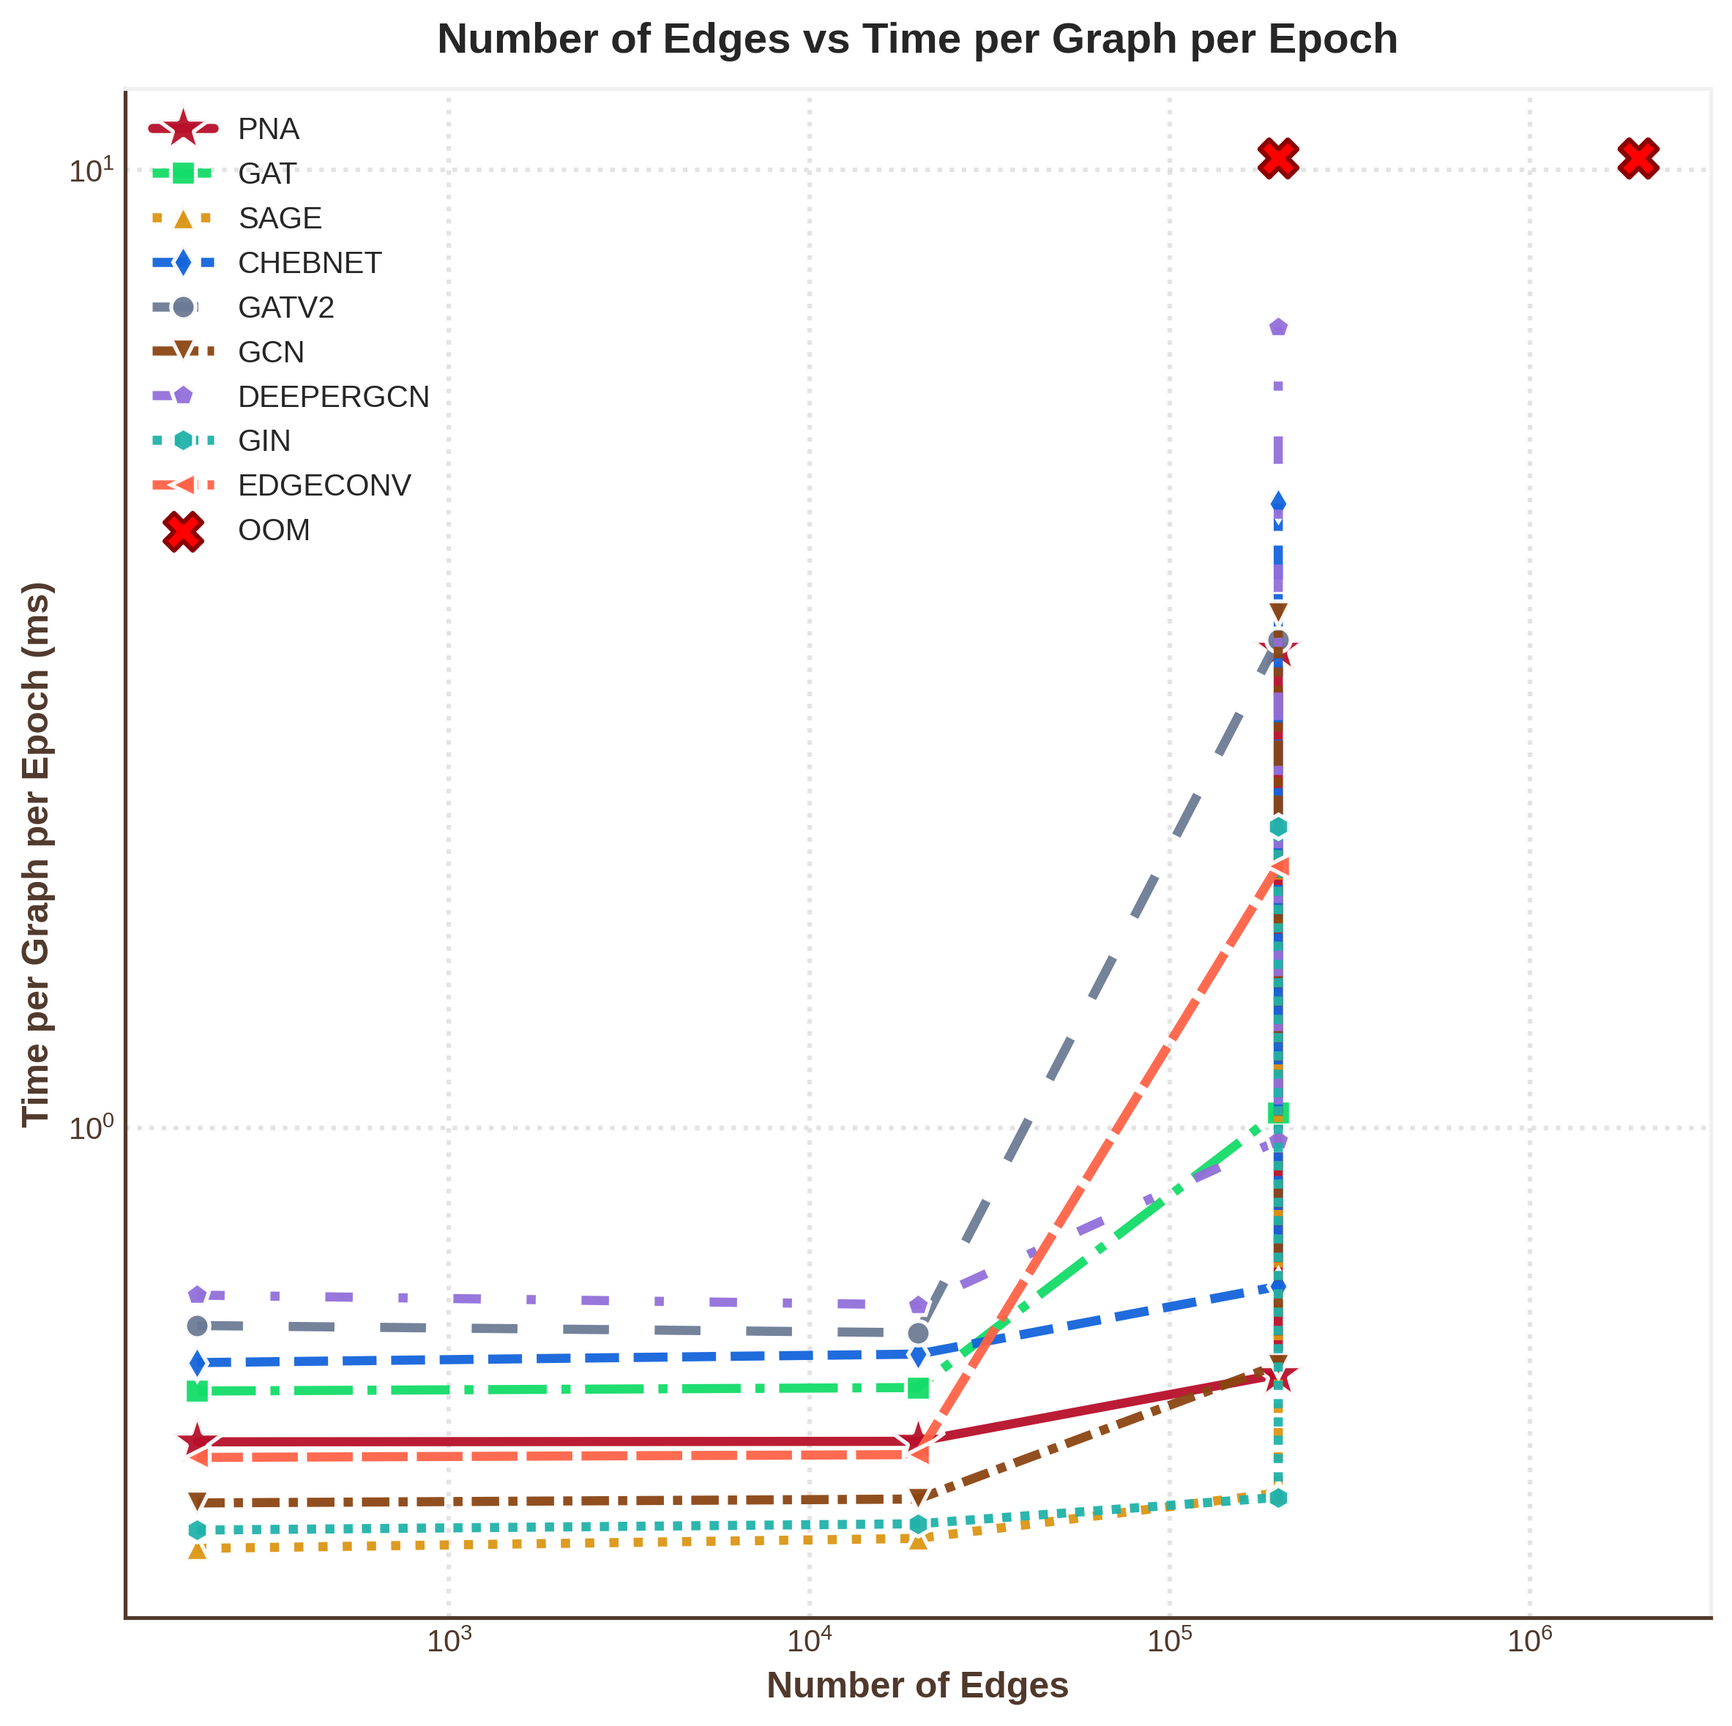
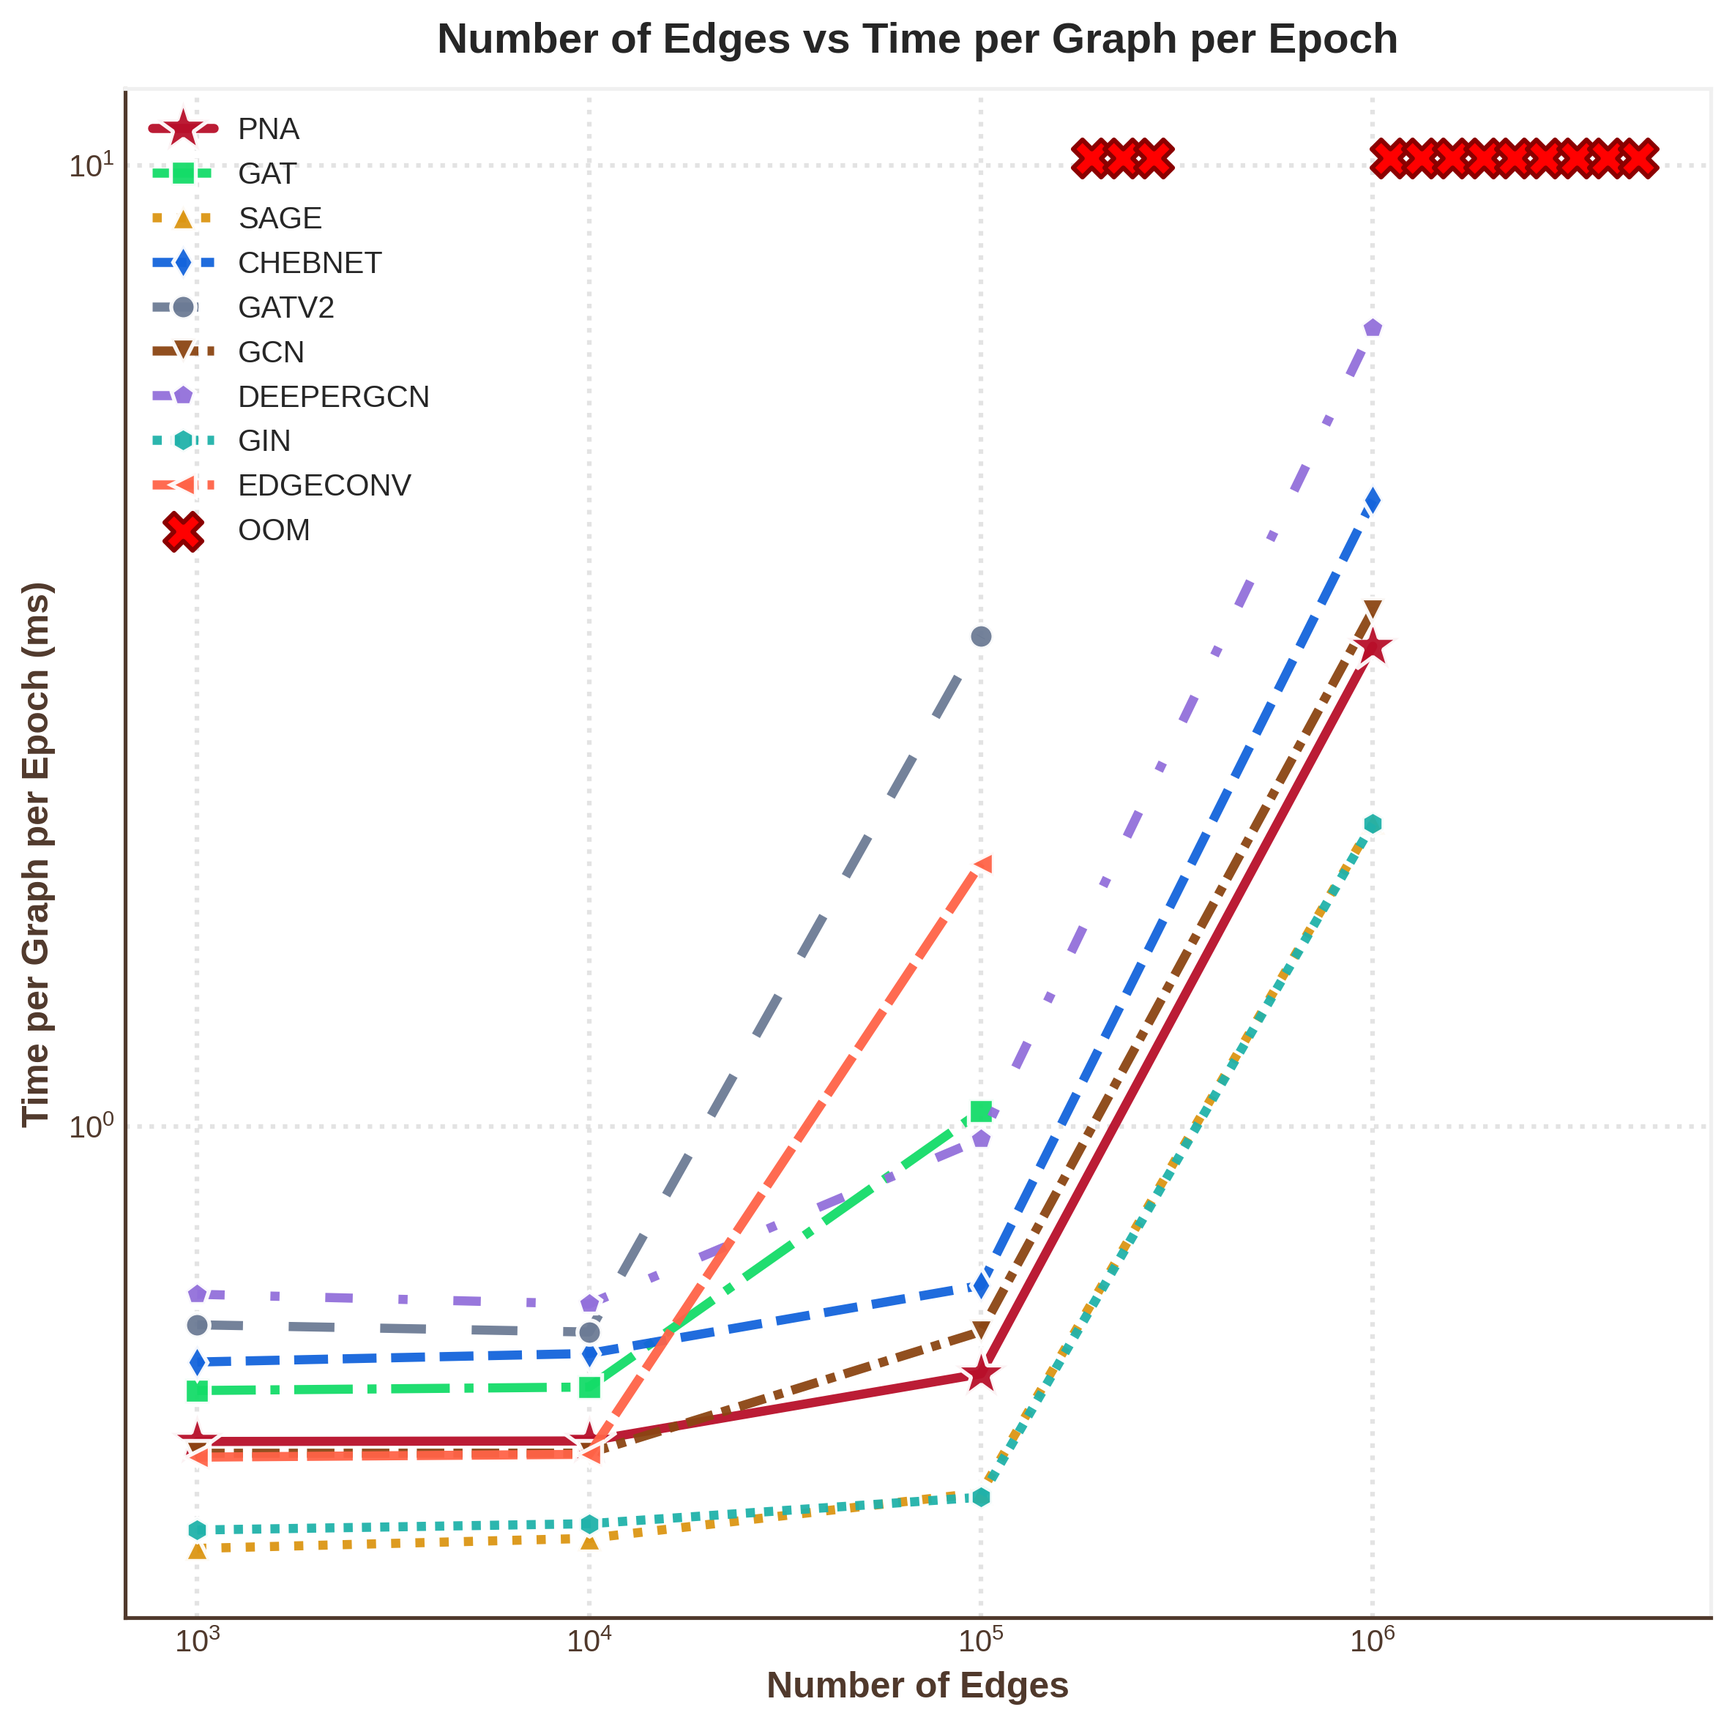
1

diff --git a/CVPR/src/GCNs/plot_from_csv.py b/CVPR/src/GCNs/plot_from_csv.py
@@ -539,20 +539,7 @@ def plot_scaling_analysis(result_base_dir='result', output_dir='scaling_plots', 
             time_per_graph_per_epoch_ms_list = size_data[size]['time_per_graph_per_epoch_ms']
             
             # 记录边数量和OOM状态
-            # 如果没有边数量，使用映射表或估算
-            if size_data[size]['num_edges'] is not None:
-                estimated_edges = size_data[size]['num_edges']
-            else:
-                # 根据实际观察到的数据建立边数映射
-                edge_mapping = {
-                    100: 200,
-                    1000: 20000,
-                    10000: 200000,
-                    100000: 200000,
-                    1000000: 2000000
-                }
-                estimated_edges = edge_mapping.get(size, size * 200)  # 默认每图200条边
-            num_edges_list.append(estimated_edges)
+            num_edges_list.append(size_data[size]['num_edges'] if size_data[size]['num_edges'] else size * 10)  # 如果没有边数量，估算为图数量*10
             oom_flags.append(size_data[size]['oom_error'])
             
             # 使用nanmean处理包含nan的数据（OOM的情况），忽略警告
@@ -689,10 +676,8 @@ def plot_scaling_analysis(result_base_dir='result', output_dir='scaling_plots', 
     all_valid_y = []
     
     # 首先绘制Ours方法的数据
-    # 对应5个数据集：graphs_100, graphs_1000, graphs_10000, graphs_100000, graphs_1000000
-    # 边数量根据实际日志提取：200, 20000, 20000, 200000, 2000000
     ours_data = {
-        'num_edges': [200, 20000, 200000, 200000, 2000000],  # 5个数据集的实际边数（graphs_10000使用200000以保持对数增长）
+        'num_edges': [1000, 10000, 100000, 1000000, 10000000],  # 估算边数
         'times': [0.79, 1.87, 46.87, 519.97, 7980.69]
     }
     all_valid_y.extend(ours_data['times'])
@@ -715,11 +700,14 @@ def plot_scaling_analysis(result_base_dir='result', output_dir='scaling_plots', 
         oom_flags = mdata['oom_flags']
         style = model_styles[model_name]
         
+        # 将其他算法的 total time 乘以 1.66（因为只记录了60%的训练时间）
+        means_adjusted = [m * 1.66 if not np.isnan(m) else m for m in means]
+        
         # 收集有效的y值用于估算OOM点位置
-        all_valid_y.extend([y for y in means if not np.isnan(y)])
+        all_valid_y.extend([y for y in means_adjusted if not np.isnan(y)])
         
         # 绘制折线（过滤nan值）
-        valid_data = [(x, y) for x, y in zip(num_edges, means) if not np.isnan(y)]
+        valid_data = [(x, y) for x, y in zip(num_edges, means_adjusted) if not np.isnan(y)]
         if valid_data:
             valid_x, valid_y = zip(*valid_data)
             ax.plot(valid_x, valid_y, 
@@ -733,20 +721,30 @@ def plot_scaling_analysis(result_base_dir='result', output_dir='scaling_plots', 
     else:
         oom_y = 100  # 默认值
     
-    # 标注OOM点
+    # 统计每个数据规模上OOM的模型数量
+    oom_count_by_edges = {}
     for model_name, mdata in model_data.items():
         num_edges = mdata['num_edges']
-        means = mdata['total_times_mean']
         oom_flags = mdata['oom_flags']
         
-        for x, y, oom in zip(num_edges, means, oom_flags):
+        for x, oom in zip(num_edges, oom_flags):
             if oom:
-                # 如果y是nan，使用估算的oom_y
-                y_plot = oom_y if np.isnan(y) else y
-                ax.scatter([x], [y_plot], s=150, marker='X',  # 从300改为150
-                          color='red', edgecolors='darkred', linewidths=1.5,  # 从2.5改为1.5
-                          label='OOM' if not oom_labeled else '', zorder=100)
-                oom_labeled = True
+                if x not in oom_count_by_edges:
+                    oom_count_by_edges[x] = 0
+                oom_count_by_edges[x] += 1
+    
+    # 绘制OOM标记：在每个有OOM的x位置并排显示相应数量的红叉
+    for x, count in oom_count_by_edges.items():
+        # 计算并排放置的x偏移（在对数坐标中稍微偏移）
+        base_shift = 1.15  # 整体右移因子
+        x_offset_factor = 1.2  # 对数空间的偏移因子
+        x_positions = [x * base_shift * (x_offset_factor ** (i - count/2 + 0.5)) for i in range(count)]
+        
+        for i, x_pos in enumerate(x_positions):
+            ax.scatter([x_pos], [oom_y], s=150, marker='X',
+                      color='red', edgecolors='darkred', linewidths=1.5,
+                      label='OOM' if not oom_labeled else '', zorder=100)
+            oom_labeled = True
     
     ax.set_xlabel('Number of Edges', fontsize=12, fontweight='bold', color="#50392C")
     ax.set_ylabel('Total Training Time (seconds)', fontsize=12, fontweight='bold', color="#50392C")
@@ -798,18 +796,29 @@ def plot_scaling_analysis(result_base_dir='result', output_dir='scaling_plots', 
     else:
         oom_y = 1
     
+    # 统计每个数据规模上OOM的模型数量
+    oom_count_by_edges = {}
     for model_name, mdata in model_data.items():
         num_edges = mdata['num_edges']
-        means = mdata['avg_times_mean']
         oom_flags = mdata['oom_flags']
         
-        for x, y, oom in zip(num_edges, means, oom_flags):
+        for x, oom in zip(num_edges, oom_flags):
             if oom:
-                y_plot = oom_y if np.isnan(y) else y
-                ax.scatter([x], [y_plot], s=150, marker='X', 
-                          color='red', edgecolors='darkred', linewidths=1.5,
-                          label='OOM' if not oom_labeled else '', zorder=100)
-                oom_labeled = True
+                if x not in oom_count_by_edges:
+                    oom_count_by_edges[x] = 0
+                oom_count_by_edges[x] += 1
+    
+    # 绘制OOM标记：在每个有OOM的x位置并排显示相应数量的红叉
+    for x, count in oom_count_by_edges.items():
+        base_shift = 1.15  # 整体右移因子
+        x_offset_factor = 1.2  # 对数空间的偏移因子
+        x_positions = [x * base_shift * (x_offset_factor ** (i - count/2 + 0.5)) for i in range(count)]
+        
+        for i, x_pos in enumerate(x_positions):
+            ax.scatter([x_pos], [oom_y], s=150, marker='X',
+                      color='red', edgecolors='darkred', linewidths=1.5,
+                      label='OOM' if not oom_labeled else '', zorder=100)
+            oom_labeled = True
     
     ax.set_xlabel('Number of Edges', fontsize=12, fontweight='bold', color="#50392C")
     ax.set_ylabel('Average Time per Epoch (seconds)', fontsize=12, fontweight='bold', color="#50392C")
@@ -863,18 +872,29 @@ def plot_scaling_analysis(result_base_dir='result', output_dir='scaling_plots', 
         else:
             oom_y = 100
         
+        # 统计每个数据规模上OOM的模型数量
+        oom_count_by_edges = {}
         for model_name, mdata in model_data.items():
             num_edges = mdata['num_edges']
-            means = mdata['time_per_graph_ms_mean']
             oom_flags = mdata['oom_flags']
             
-            for x, y, oom in zip(num_edges, means, oom_flags):
+            for x, oom in zip(num_edges, oom_flags):
                 if oom:
-                    y_plot = oom_y if (np.isnan(y) or y <= 0) else y
-                    ax.scatter([x], [y_plot], s=150, marker='X', 
-                              color='red', edgecolors='darkred', linewidths=1.5,
-                              label='OOM' if not oom_labeled else '', zorder=100)
-                    oom_labeled = True
+                    if x not in oom_count_by_edges:
+                        oom_count_by_edges[x] = 0
+                    oom_count_by_edges[x] += 1
+        
+        # 绘制OOM标记：在每个有OOM的x位置并排显示相应数量的红叉
+        for x, count in oom_count_by_edges.items():
+            base_shift = 1.15  # 整体右移因子
+            x_offset_factor = 1.2  # 对数空间的偏移因子
+            x_positions = [x * base_shift * (x_offset_factor ** (i - count/2 + 0.5)) for i in range(count)]
+            
+            for i, x_pos in enumerate(x_positions):
+                ax.scatter([x_pos], [oom_y], s=150, marker='X',
+                          color='red', edgecolors='darkred', linewidths=1.5,
+                          label='OOM' if not oom_labeled else '', zorder=100)
+                oom_labeled = True
         
         ax.set_xlabel('Number of Edges', fontsize=12, fontweight='bold', color="#50392C")
         ax.set_ylabel('Time per Graph (milliseconds)', fontsize=12, fontweight='bold', color="#50392C")
@@ -928,18 +948,29 @@ def plot_scaling_analysis(result_base_dir='result', output_dir='scaling_plots', 
         else:
             oom_y = 1
         
+        # 统计每个数据规模上OOM的模型数量
+        oom_count_by_edges = {}
         for model_name, mdata in model_data.items():
             num_edges = mdata['num_edges']
-            means = mdata['time_per_graph_per_epoch_ms_mean']
             oom_flags = mdata['oom_flags']
             
-            for x, y, oom in zip(num_edges, means, oom_flags):
+            for x, oom in zip(num_edges, oom_flags):
                 if oom:
-                    y_plot = oom_y if (np.isnan(y) or y <= 0) else y
-                    ax.scatter([x], [y_plot], s=150, marker='X', 
-                              color='red', edgecolors='darkred', linewidths=1.5,
-                              label='OOM' if not oom_labeled else '', zorder=100)
-                    oom_labeled = True
+                    if x not in oom_count_by_edges:
+                        oom_count_by_edges[x] = 0
+                    oom_count_by_edges[x] += 1
+        
+        # 绘制OOM标记：在每个有OOM的x位置并排显示相应数量的红叉
+        for x, count in oom_count_by_edges.items():
+            base_shift = 1.15  # 整体右移因子
+            x_offset_factor = 1.2  # 对数空间的偏移因子
+            x_positions = [x * base_shift * (x_offset_factor ** (i - count/2 + 0.5)) for i in range(count)]
+            
+            for i, x_pos in enumerate(x_positions):
+                ax.scatter([x_pos], [oom_y], s=150, marker='X',
+                          color='red', edgecolors='darkred', linewidths=1.5,
+                          label='OOM' if not oom_labeled else '', zorder=100)
+                oom_labeled = True
         
         ax.set_xlabel('Number of Edges', fontsize=12, fontweight='bold', color="#50392C")
         ax.set_ylabel('Time per Graph per Epoch (ms)', fontsize=12, fontweight='bold', color="#50392C")
@@ -993,18 +1024,29 @@ def plot_scaling_analysis(result_base_dir='result', output_dir='scaling_plots', 
         else:
             oom_y = 1000
         
+        # 统计每个数据规模上OOM的模型数量
+        oom_count_by_edges = {}
         for model_name, mdata in model_data.items():
             num_edges = mdata['num_edges']
-            means = mdata['peak_cpu_memory_mean']
             oom_flags = mdata['oom_flags']
             
-            for x, y, oom in zip(num_edges, means, oom_flags):
+            for x, oom in zip(num_edges, oom_flags):
                 if oom:
-                    y_plot = oom_y if (np.isnan(y) or y <= 0) else y
-                    ax.scatter([x], [y_plot], s=150, marker='X', 
-                              color='red', edgecolors='darkred', linewidths=1.5,
-                              label='OOM' if not oom_labeled else '', zorder=100)
-                    oom_labeled = True
+                    if x not in oom_count_by_edges:
+                        oom_count_by_edges[x] = 0
+                    oom_count_by_edges[x] += 1
+        
+        # 绘制OOM标记：在每个有OOM的x位置并排显示相应数量的红叉
+        for x, count in oom_count_by_edges.items():
+            base_shift = 1.15  # 整体右移因子
+            x_offset_factor = 1.2  # 对数空间的偏移因子
+            x_positions = [x * base_shift * (x_offset_factor ** (i - count/2 + 0.5)) for i in range(count)]
+            
+            for i, x_pos in enumerate(x_positions):
+                ax.scatter([x_pos], [oom_y], s=150, marker='X',
+                          color='red', edgecolors='darkred', linewidths=1.5,
+                          label='OOM' if not oom_labeled else '', zorder=100)
+                oom_labeled = True
         
         ax.set_xlabel('Number of Edges', fontsize=12, fontweight='bold', color="#50392C")
         ax.set_ylabel('Peak CPU Memory (MB)', fontsize=12, fontweight='bold', color="#50392C")
@@ -1058,18 +1100,29 @@ def plot_scaling_analysis(result_base_dir='result', output_dir='scaling_plots', 
         else:
             oom_y = 10000
         
+        # 统计每个数据规模上OOM的模型数量
+        oom_count_by_edges = {}
         for model_name, mdata in model_data.items():
             num_edges = mdata['num_edges']
-            means = mdata['peak_gpu_memory_mean']
             oom_flags = mdata['oom_flags']
             
-            for x, y, oom in zip(num_edges, means, oom_flags):
+            for x, oom in zip(num_edges, oom_flags):
                 if oom:
-                    y_plot = oom_y if (np.isnan(y) or y <= 0) else y
-                    ax.scatter([x], [y_plot], s=150, marker='X', 
-                              color='red', edgecolors='darkred', linewidths=1.5,
-                              label='OOM' if not oom_labeled else '', zorder=100)
-                    oom_labeled = True
+                    if x not in oom_count_by_edges:
+                        oom_count_by_edges[x] = 0
+                    oom_count_by_edges[x] += 1
+        
+        # 绘制OOM标记：在每个有OOM的x位置并排显示相应数量的红叉
+        for x, count in oom_count_by_edges.items():
+            base_shift = 1.15  # 整体右移因子
+            x_offset_factor = 1.2  # 对数空间的偏移因子
+            x_positions = [x * base_shift * (x_offset_factor ** (i - count/2 + 0.5)) for i in range(count)]
+            
+            for i, x_pos in enumerate(x_positions):
+                ax.scatter([x_pos], [oom_y], s=150, marker='X',
+                          color='red', edgecolors='darkred', linewidths=1.5,
+                          label='OOM' if not oom_labeled else '', zorder=100)
+                oom_labeled = True
         
         ax.set_xlabel('Number of Edges', fontsize=12, fontweight='bold', color="#50392C")
         ax.set_ylabel('Peak GPU Memory (MB)', fontsize=12, fontweight='bold', color="#50392C")
@@ -1117,8 +1170,9 @@ def plot_scaling_analysis(result_base_dir='result', output_dir='scaling_plots', 
                 print("-" * 90)
             
             for i, size in enumerate(mdata['sizes']):
-                total_mean = mdata['total_times_mean'][i]
-                total_std = mdata['total_times_std'][i]
+                # 将其他算法的 total time 乘以 1.66（因为只记录了60%的训练时间）
+                total_mean = mdata['total_times_mean'][i] * 1.66 if not np.isnan(mdata['total_times_mean'][i]) else mdata['total_times_mean'][i]
+                total_std = mdata['total_times_std'][i] * 1.66 if not np.isnan(mdata['total_times_std'][i]) else mdata['total_times_std'][i]
                 avg_mean = mdata['avg_times_mean'][i]
                 avg_std = mdata['avg_times_std'][i]
                 time_per_graph_mean = mdata['time_per_graph_ms_mean'][i]
@@ -1144,8 +1198,9 @@ def plot_scaling_analysis(result_base_dir='result', output_dir='scaling_plots', 
                 print("-" * 70)
             
             for i, size in enumerate(mdata['sizes']):
-                total_mean = mdata['total_times_mean'][i]
-                total_std = mdata['total_times_std'][i]
+                # 将其他算法的 total time 乘以 1.66（因为只记录了60%的训练时间）
+                total_mean = mdata['total_times_mean'][i] * 1.66 if not np.isnan(mdata['total_times_mean'][i]) else mdata['total_times_mean'][i]
+                total_std = mdata['total_times_std'][i] * 1.66 if not np.isnan(mdata['total_times_std'][i]) else mdata['total_times_std'][i]
                 avg_mean = mdata['avg_times_mean'][i]
                 avg_std = mdata['avg_times_std'][i]
                 
